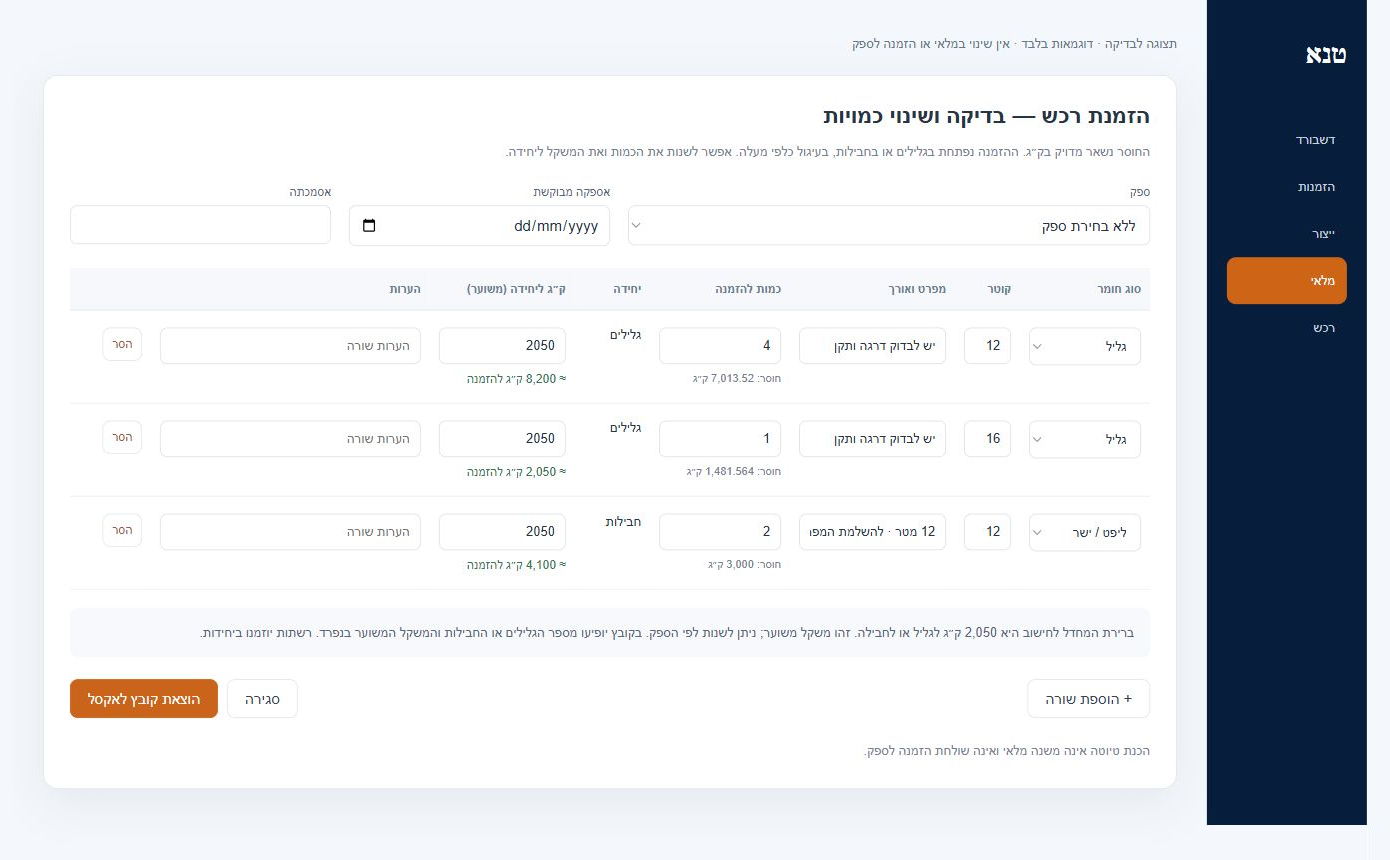
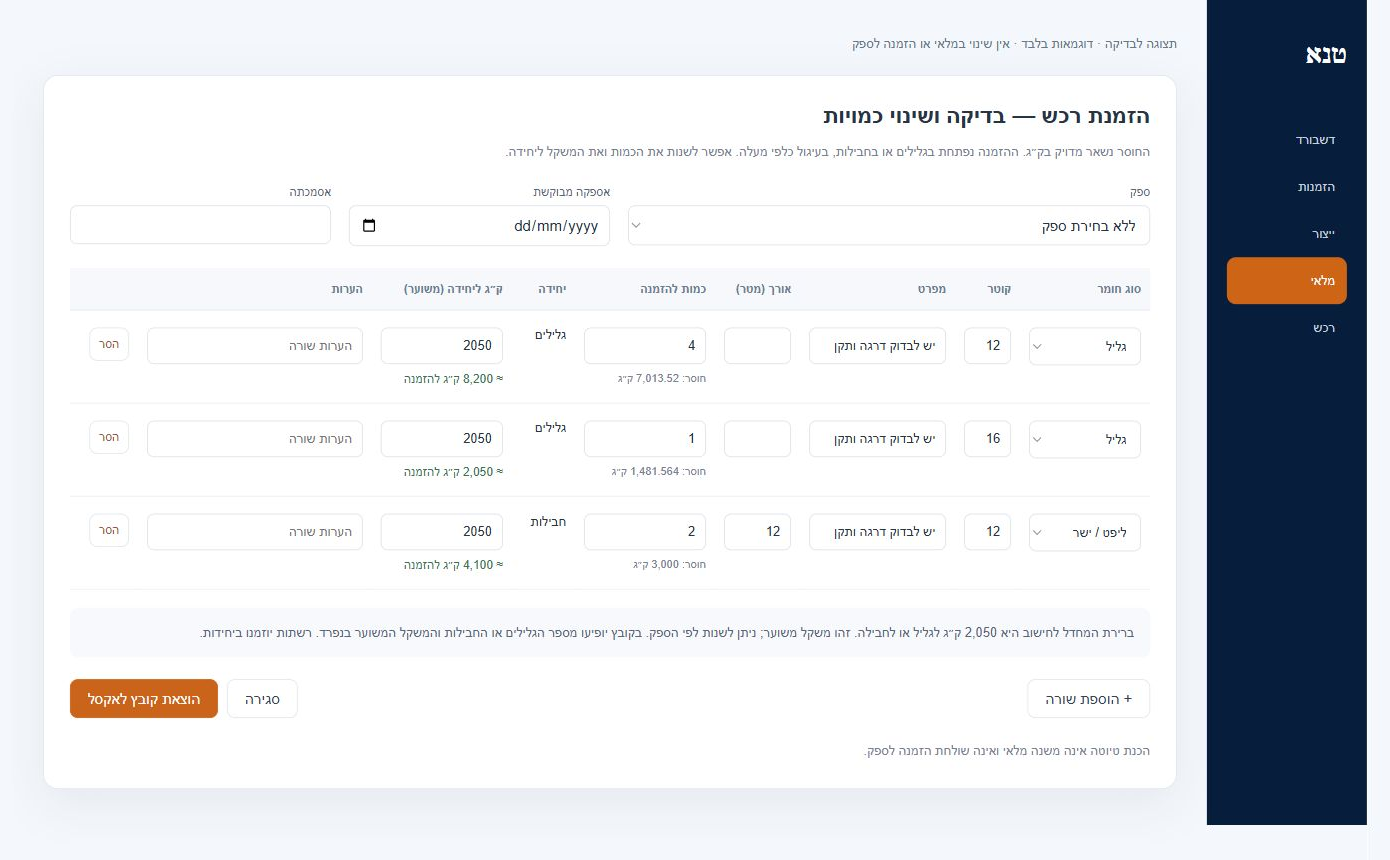
Keep specification and bar length separate in purchase draft review and export

diff --git a/docs/mockups/purchase-package-units-20261108.html b/docs/mockups/purchase-package-units-20261108.html
@@ -1,8 +1,8 @@
 <!doctype html><html lang="he" dir="rtl"><meta charset="utf-8"><meta name="viewport" content="width=device-width,initial-scale=1"><title>הזמנת רכש בגלילים ובחבילות</title><style>
-*{box-sizing:border-box}body{margin:0;background:#f4f7fb;font:15px Arial,sans-serif;color:#263445}.side{position:fixed;right:0;top:0;bottom:0;width:160px;background:#071d3c;color:#fff;padding:30px 20px}.brand{font-size:30px;font-weight:900;margin-bottom:44px}.nav{padding:16px 12px;font-size:13px;color:#c4cfdd}.nav.active{background:#ce6516;color:white;border-radius:9px}main{padding:36px 30px;margin-right:160px}.preview{font-size:13px;color:#69778a;margin-bottom:24px}.modal{background:white;border:1px solid #e0e6ed;border-radius:15px;box-shadow:0 14px 48px #19345212;padding:26px;max-width:1140px;margin:auto}h2{margin:0 0 12px;font-size:23px}.muted{color:#778293;font-size:13px;line-height:1.7}label{display:block;font-size:12px;margin-bottom:7px;color:#5b6879}input,select{font:inherit;border:1px solid #dce2e9;border-radius:7px;padding:10px;background:white;max-width:100%;width:100%;color:#263445}.fields{display:grid;grid-template-columns:2fr 1fr 1fr;gap:18px;margin:22px 0}.scroll{overflow:auto}table{border-collapse:collapse;width:100%;min-width:900px;font-size:13px}th{text-align:right;color:#6e7e92;background:#f6f8fb;font-size:12px;padding:14px 9px;border-bottom:1px solid #e3e8f0}td{padding:17px 9px;border-bottom:1px solid #e8edf3;vertical-align:top}td:nth-child(1){width:130px}td:nth-child(2){width:65px}td:nth-child(3){width:165px}td:nth-child(4){width:140px}td:nth-child(6){width:145px}.small{font-size:11px;color:#778293;margin-top:8px;white-space:nowrap}.weight{font-size:12px;color:#397456;margin-top:8px}button{font:inherit;border:1px solid #e0e6ed;border-radius:8px;background:white;padding:10px 17px;cursor:pointer;color:#344359}.primary{background:#ca641a;border-color:#ca641a;color:white}.remove{font-size:12px;padding:9px;color:#985742}.bottom{display:flex;justify-content:space-between;align-items:center;margin:22px 0}.actions{display:flex;gap:9px}.note{background:#f7f9fc;border-radius:8px;padding:13px 16px;margin:18px 0;font-size:13px;line-height:1.8;color:#58677a}@media(max-width:700px){.side{display:none}main{margin:0;padding:16px}.modal{padding:18px}.fields{grid-template-columns:1fr}h2{font-size:20px}}
+*{box-sizing:border-box}body{margin:0;background:#f4f7fb;font:15px Arial,sans-serif;color:#263445}.side{position:fixed;right:0;top:0;bottom:0;width:160px;background:#071d3c;color:#fff;padding:30px 20px}.brand{font-size:30px;font-weight:900;margin-bottom:44px}.nav{padding:16px 12px;font-size:13px;color:#c4cfdd}.nav.active{background:#ce6516;color:white;border-radius:9px}main{padding:36px 30px;margin-right:160px}.preview{font-size:13px;color:#69778a;margin-bottom:24px}.modal{background:white;border:1px solid #e0e6ed;border-radius:15px;box-shadow:0 14px 48px #19345212;padding:26px;max-width:1140px;margin:auto}h2{margin:0 0 12px;font-size:23px}.muted{color:#778293;font-size:13px;line-height:1.7}label{display:block;font-size:12px;margin-bottom:7px;color:#5b6879}input,select{font:inherit;border:1px solid #dce2e9;border-radius:7px;padding:10px;background:white;max-width:100%;width:100%;color:#263445}.fields{display:grid;grid-template-columns:2fr 1fr 1fr;gap:18px;margin:22px 0}.scroll{overflow:auto}table{border-collapse:collapse;width:100%;min-width:900px;font-size:13px}th{text-align:right;color:#6e7e92;background:#f6f8fb;font-size:12px;padding:14px 9px;border-bottom:1px solid #e3e8f0}td{padding:17px 9px;border-bottom:1px solid #e8edf3;vertical-align:top}td:nth-child(1){width:130px}td:nth-child(2){width:65px}td:nth-child(3){width:155px}td:nth-child(4){width:85px}td:nth-child(5){width:140px}td:nth-child(7){width:140px}.small{font-size:11px;color:#778293;margin-top:8px;white-space:nowrap}.weight{font-size:12px;color:#397456;margin-top:8px}button{font:inherit;border:1px solid #e0e6ed;border-radius:8px;background:white;padding:10px 17px;cursor:pointer;color:#344359}.primary{background:#ca641a;border-color:#ca641a;color:white}.remove{font-size:12px;padding:9px;color:#985742}.bottom{display:flex;justify-content:space-between;align-items:center;margin:22px 0}.actions{display:flex;gap:9px}.note{background:#f7f9fc;border-radius:8px;padding:13px 16px;margin:18px 0;font-size:13px;line-height:1.8;color:#58677a}@media(max-width:700px){.side{display:none}main{margin:0;padding:16px}.modal{padding:18px}.fields{grid-template-columns:1fr}h2{font-size:20px}}
 body{width:1354px;position:relative;float:left}.side{position:absolute}@media(max-width:700px){body{width:100%;float:none}}
-</style><aside class="side"><div class="brand">טנא</div><div class="nav">דשבורד</div><div class="nav">הזמנות</div><div class="nav">ייצור</div><div class="nav active">מלאי</div><div class="nav">רכש</div></aside><main><div class="preview">תצוגה לבדיקה · דוגמאות בלבד · אין שינוי במלאי או הזמנה לספק</div><section class="modal"><h2>הזמנת רכש — בדיקה ושינוי כמויות</h2><div class="muted">החוסר נשאר מדויק בק״ג. ההזמנה נפתחת בגלילים או בחבילות, בעיגול כלפי מעלה. אפשר לשנות את הכמות ואת המשקל ליחידה.</div><div class="fields"><div><label>ספק</label><select><option>ללא בחירת ספק</option></select></div><div><label>אספקה מבוקשת</label><input type="date"></div><div><label>אסמכתה</label><input></div></div><div class="scroll"><table><thead><tr><th>סוג חומר</th><th>קוטר</th><th>מפרט ואורך</th><th>כמות להזמנה</th><th>יחידה</th><th>ק״ג ליחידה (משוער)</th><th>הערות</th><th></th></tr></thead><tbody id="rows"></tbody></table></div><div class="note">ברירת המחדל לחישוב היא 2,050 ק״ג לגליל או לחבילה. זהו משקל משוער; ניתן לשנות לפי הספק. בקובץ יופיעו מספר הגלילים או החבילות והמשקל המשוער בנפרד. רשתות יוזמנו ביחידות.</div><div class="bottom"><button>+ הוספת שורה</button><div class="actions"><button>סגירה</button><button class="primary">הוצאת קובץ לאקסל</button></div></div><div class="muted">הכנת טיוטה אינה משנה מלאי ואינה שולחת הזמנה לספק.</div></section></main><script>
-const data=[{type:'גליל',diameter:12,spec:'יש לבדוק דרגה ותקן',short:7013.52,quantity:4,unit:'גלילים'},{type:'גליל',diameter:16,spec:'יש לבדוק דרגה ותקן',short:1481.564,quantity:1,unit:'גלילים'},{type:'ליפט / ישר',diameter:12,spec:'12 מטר · להשלמת המפרט',short:3000,quantity:2,unit:'חבילות'}];
-document.getElementById('rows').innerHTML=data.map((r,i)=>`<tr><td><select><option>${r.type}</option></select></td><td><input value="${r.diameter}"></td><td><input value="${r.spec}"></td><td><input type="number" min="1" step="1" data-q="${i}" value="${r.quantity}"><div class="small">חוסר: ${r.short.toLocaleString('he-IL')} ק״ג</div></td><td>${r.unit}</td><td><input type="number" min="1" data-w="${i}" value="2050"><div class="weight" id="weight-${i}">≈ ${(r.quantity*2050).toLocaleString('he-IL')} ק״ג להזמנה</div></td><td><input placeholder="הערות שורה"></td><td><button class="remove">הסר</button></td></tr>`).join('');
+</style><aside class="side"><div class="brand">טנא</div><div class="nav">דשבורד</div><div class="nav">הזמנות</div><div class="nav">ייצור</div><div class="nav active">מלאי</div><div class="nav">רכש</div></aside><main><div class="preview">תצוגה לבדיקה · דוגמאות בלבד · אין שינוי במלאי או הזמנה לספק</div><section class="modal"><h2>הזמנת רכש — בדיקה ושינוי כמויות</h2><div class="muted">החוסר נשאר מדויק בק״ג. ההזמנה נפתחת בגלילים או בחבילות, בעיגול כלפי מעלה. אפשר לשנות את הכמות ואת המשקל ליחידה.</div><div class="fields"><div><label>ספק</label><select><option>ללא בחירת ספק</option></select></div><div><label>אספקה מבוקשת</label><input type="date"></div><div><label>אסמכתה</label><input></div></div><div class="scroll"><table><thead><tr><th>סוג חומר</th><th>קוטר</th><th>מפרט</th><th>אורך (מטר)</th><th>כמות להזמנה</th><th>יחידה</th><th>ק״ג ליחידה (משוער)</th><th>הערות</th><th></th></tr></thead><tbody id="rows"></tbody></table></div><div class="note">ברירת המחדל לחישוב היא 2,050 ק״ג לגליל או לחבילה. זהו משקל משוער; ניתן לשנות לפי הספק. בקובץ יופיעו מספר הגלילים או החבילות והמשקל המשוער בנפרד. רשתות יוזמנו ביחידות.</div><div class="bottom"><button>+ הוספת שורה</button><div class="actions"><button>סגירה</button><button class="primary">הוצאת קובץ לאקסל</button></div></div><div class="muted">הכנת טיוטה אינה משנה מלאי ואינה שולחת הזמנה לספק.</div></section></main><script>
+const data=[{type:'גליל',diameter:12,spec:'יש לבדוק דרגה ותקן',short:7013.52,quantity:4,unit:'גלילים'},{type:'גליל',diameter:16,spec:'יש לבדוק דרגה ותקן',short:1481.564,quantity:1,unit:'גלילים'},{type:'ליפט / ישר',diameter:12,spec:'יש לבדוק דרגה ותקן',length:12,short:3000,quantity:2,unit:'חבילות'}];
+document.getElementById('rows').innerHTML=data.map((r,i)=>`<tr><td><select><option>${r.type}</option></select></td><td><input value="${r.diameter}"></td><td><input aria-label="מפרט" value="${r.spec}"></td><td><input aria-label="אורך במטרים" type="number" min="0.1" step="0.1" value="${r.length||''}" ${r.type==='גליל'?'disabled':''}></td><td><input type="number" min="1" step="1" data-q="${i}" value="${r.quantity}"><div class="small">חוסר: ${r.short.toLocaleString('he-IL')} ק״ג</div></td><td>${r.unit}</td><td><input type="number" min="1" data-w="${i}" value="2050"><div class="weight" id="weight-${i}">≈ ${(r.quantity*2050).toLocaleString('he-IL')} ק״ג להזמנה</div></td><td><input placeholder="הערות שורה"></td><td><button class="remove">הסר</button></td></tr>`).join('');
 document.addEventListener('input',e=>{let i=e.target.dataset.q??e.target.dataset.w;if(i===undefined)return;document.getElementById('weight-'+i).textContent='≈ '+(Number(document.querySelector(`[data-q="${i}"]`).value)*Number(document.querySelector(`[data-w="${i}"]`).value)).toLocaleString('he-IL')+' ק״ג להזמנה';});
 </script></html>

diff --git a/services/purchaseDraftExport.js b/services/purchaseDraftExport.js
@@ -34,8 +34,11 @@ function normalizeDraft(db,input={}) {
     if(diameter!==null&&(!Number.isFinite(diameter)||diameter<=0))fail('invalid_diameter');
     if(line.material_type!=='mesh'&&diameter===null)fail('diameter_required');
     const specification=string(line.specification);
+    const length=line.length_m===undefined||line.length_m===null||line.length_m===''?null:Number(line.length_m);
+    if(length!==null&&(typeof line.length_m==='boolean'||!Number.isFinite(length)||length<=0||length>1000))fail('invalid_purchase_length');
+    if(length!==null&&!['straight','bent'].includes(line.material_type))fail('invalid_purchase_length');
     if(unit==='sheet'&&!specification)fail('mesh_specification_required');
-    return {row:index+1,material_type:line.material_type,type_label:TYPE_LABELS[line.material_type],diameter,specification,quantity,unit,unit_label:unit==='kg'?'ק״ג':unit==='sheet'?'יחידות':expected.label,unit_weight_kg:unitWeight,estimated_weight_kg:totalWeight,shortage_kg:shortage,notes:string(line.notes)};
+    return {row:index+1,material_type:line.material_type,type_label:TYPE_LABELS[line.material_type],diameter,specification,length_m:length,quantity,unit,unit_label:unit==='kg'?'ק״ג':unit==='sheet'?'יחידות':expected.label,unit_weight_kg:unitWeight,estimated_weight_kg:totalWeight,shortage_kg:shortage,notes:string(line.notes)};
   });
   const deliveryDate=string(input.expected_date);
   if(deliveryDate&&(!/^\d{4}-\d{2}-\d{2}$/.test(deliveryDate)||!Number.isFinite(Date.parse(deliveryDate))||new Date(deliveryDate).toISOString().slice(0,10)!==deliveryDate))fail('invalid_expected_date');
@@ -49,8 +52,8 @@ function csvCell(value) {
 }
 function exportPurchaseDraft(db,input={}) {
   const draft=normalizeDraft(db,input);
-  const rows=[['ספק','אספקה מבוקשת','אסמכתה','שורה','סוג חומר','קוטר במ״מ','מפרט / אורך','כמות להזמנה','יחידה','ק״ג ליחידה (משוער)','משקל להזמנה בק״ג (משוער)','חוסר מדויק בק״ג','הערות שורה','הערות להזמנה']];
-  for(const line of draft.lines)rows.push([draft.supplier,draft.expected_date,draft.reference,line.row,line.type_label,line.diameter,line.specification,line.quantity,line.unit_label,line.unit_weight_kg,line.estimated_weight_kg,line.shortage_kg,line.notes,draft.notes]);
+  const rows=[['ספק','אספקה מבוקשת','אסמכתה','שורה','סוג חומר','קוטר במ״מ','מפרט','אורך (מטר)','כמות להזמנה','יחידה','ק״ג ליחידה (משוער)','משקל להזמנה בק״ג (משוער)','חוסר מדויק בק״ג','הערות שורה','הערות להזמנה']];
+  for(const line of draft.lines)rows.push([draft.supplier,draft.expected_date,draft.reference,line.row,line.type_label,line.diameter,line.specification,line.length_m,line.quantity,line.unit_label,line.unit_weight_kg,line.estimated_weight_kg,line.shortage_kg,line.notes,draft.notes]);
   return {filename:'purchase-order-draft.csv',content:'\uFEFF'+rows.map(row=>row.map(csvCell).join(',')).join('\r\n')+'\r\n',draft};
 }
 module.exports={normalizeDraft,exportPurchaseDraft,csvCell};

diff --git a/test/purchase-draft-export.test.js b/test/purchase-draft-export.test.js
@@ -40,7 +40,7 @@ test('supplier export preserves edited package quantity and recalculates estimat
   const db=new Database(':memory:');ensureCoreSchema(db);
   const result=exportPurchaseDraft(db,{lines:[
     {material_type:'coil',diameter:12,quantity:5,purchase_unit:'coil',unit_weight_kg:2100,estimated_weight_kg:123,shortage_kg:7013.52},
-    {material_type:'straight',diameter:16,specification:'12 מטר',quantity:1.5,purchase_unit:'bundle',unit_weight_kg:2000},
+    {material_type:'straight',diameter:16,specification:'B500B',length_m:12,quantity:1.5,purchase_unit:'bundle',unit_weight_kg:2000},
     {material_type:'mesh',quantity:25,specification:'6x2.5',purchase_unit:'sheet'}
   ]});
   assert.equal(result.draft.lines[0].quantity,5);
@@ -49,6 +49,10 @@ test('supplier export preserves edited package quantity and recalculates estimat
   assert.equal(result.draft.lines[0].shortage_kg,7013.52);
   assert.equal(result.draft.lines[1].unit_label,'חבילות');
   assert.equal(result.draft.lines[1].estimated_weight_kg,3000);
+  assert.equal(result.draft.lines[1].specification,'B500B');
+  assert.equal(result.draft.lines[1].length_m,12);
+  assert.match(result.content,/"מפרט","אורך \(מטר\)"/);
+  assert.match(result.content,/"B500B","12","1.5","חבילות"/);
   assert.equal(result.draft.lines[2].estimated_weight_kg,null);
   assert.match(result.content,/"5","גלילים","2100","10500","7013.52"/);
   assert.match(result.content,/"1.5","חבילות","2000","3000"/);

diff --git a/docs/purchase-package-units-20261108.md b/docs/purchase-package-units-20261108.md
@@ -36,3 +36,8 @@ Rollback: revert the draft UI and export helper together; no data migration need
 Full verification: npm test — 1152 tests passed, zero failures. Only the standalone
 mockup and backend support have changed; the live purchase dialog remains unchanged
 until visual approval.
+
+Owner correction 2026-11-09: specification and length are separate fields.
+The draft preview has distinct specification and length (meters) columns; CSV exports
+length_m separately. Length applies to straight/bent bars, not coils or mesh sheets.
+Unit export tests pass, including independent B500B / 12-meter values.
